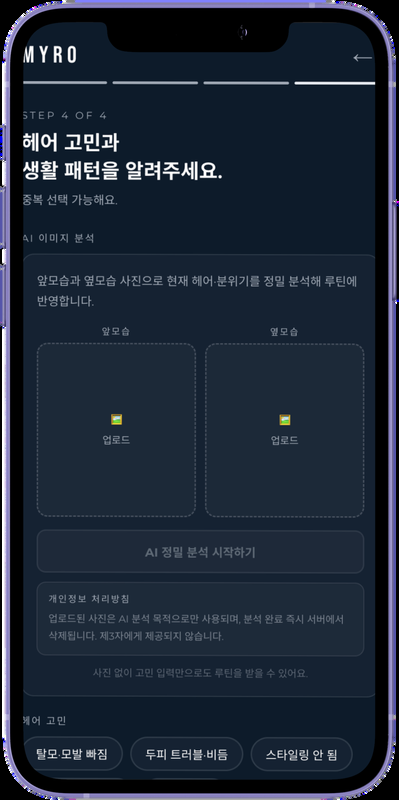
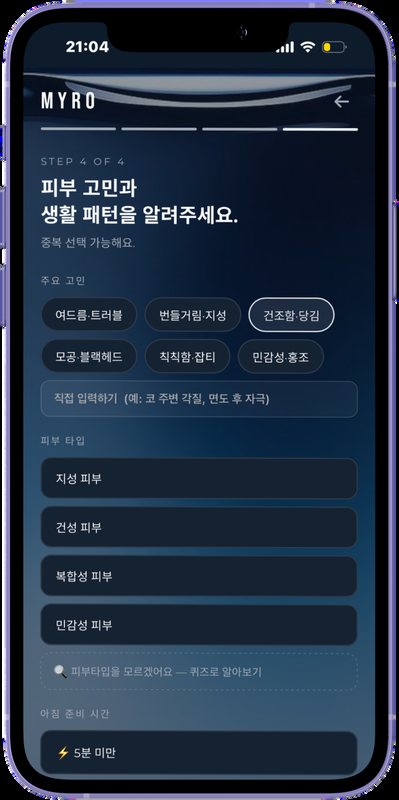
팀별 둘째 장 추가와 MYRO·SUBOOK 최신 자료 반영
바디밸런서, MYRO, SUBOOK에 숫자·사업 모델·다음 계획 장을 하나씩 더했다.
MYRO는 9/21 IR 덱, SUBOOK은 최신 소개 자료의 숫자와 화면으로 바꿨다.

Claude-Session: https://claude.ai/code/session_01JX8HRFD41nH27SkA2hhhmK

diff --git a/index.html b/index.html
@@ -120,6 +120,22 @@
   .team .vis.shot { background: radial-gradient(circle at 50% 45%, #1d2340 0%, #0f0f12 70%); }
   .team .vis.shot img { width: 720px; height: auto; border-radius: 14px; box-shadow: 0 30px 80px rgba(0,0,0,.55); }
 
+
+  /* 사업 둘째 장(숫자·모델·다음) */
+  .biz .head { display: flex; align-items: center; gap: 32px; }
+  .biz .logo.sq { height: 84px; border-radius: 14px; display: block; }
+  .biz .logo.wm { height: 56px; display: block; }
+  .biz h2 { font-size: 64px; margin-top: 52px; }
+  .biz .cols { position: absolute; left: 0; right: 0; bottom: 10px; display: grid; grid-template-columns: 1fr 620px; gap: 0 110px; align-items: end; }
+  .biz .mt > div { display: grid; grid-template-columns: 330px 1fr; align-items: baseline; gap: 0 28px; padding: 24px 0; border-top: 1px solid var(--line); }
+  .biz .mt .v { font-family: var(--display); font-size: 54px; font-weight: 700; letter-spacing: -0.03em; line-height: 1.05; white-space: nowrap; }
+  .biz .mt .k { font-size: 30px; color: var(--subtle); line-height: 1.4; }
+  .biz .side h4 { font-size: 24px; font-weight: 600; color: var(--accent-text); letter-spacing: .02em; padding-bottom: 12px; }
+  .biz .side h4 ~ h4 { margin-top: 34px; }
+  .biz .side p { font-size: 30px; line-height: 1.45; color: var(--subtle); padding: 14px 0; border-top: 1px solid var(--line); }
+  .biz .side p.t { display: grid; grid-template-columns: 112px 1fr; gap: 0 12px; }
+  .biz .side p b { color: var(--fg); font-weight: 700; font-family: var(--display); }
+
   /* 다음 */
   #next h2 { margin-top: 40px; }
   .rows { position: absolute; left: 0; right: 0; bottom: 30px; }
@@ -248,13 +264,37 @@
     <h2>폰 카메라 한 번으로<br>자세를 측정해 기록하는 앱</h2>
     <div class="pr">
       <div><span>문제</span><span>근골격 통증으로 1년에 8.2번 병원에 가도,<br>왜 아픈지는 듣지 못합니다.</span></div>
-      <div><span>해결</span><span>촬영하면 AI가 자세를 분석하고 변화를 추적합니다.<br>9월 Shellog로 Android·iOS에 출시했습니다.</span></div>
+      <div><span>해결</span><span>촬영하면 AI가 자세를 분석하고 변화를 추적합니다.<br>Shellog라는 이름으로 Android·iOS에 출시했습니다.</span></div>
       <div><span>기술</span><span>Expo·React Native, 온디바이스 MoveNet,<br>서버 RTMPose와 MediaPipe 듀얼 엔진</span></div>
     </div>
     <div class="kbox"><div class="kpi">96.8%</div><div class="kcap">관절 위치 정밀도(PCK@0.10, COCO 기준) · 업계 평균 95%</div></div>
   </div>
   <div class="vis phones cards"><img src="assets/shellog-01-test.png" alt=""><img src="assets/shellog-04-verdict.png" alt=""></div>
   <div class="cap vcap">Shellog: 필라테스 & 자세 교정 · 스토어 화면</div>
+</section>
+
+<!-- 6-2 BodyBalancer 지금 -->
+<section class="slide biz" id="b-bb">
+  <div class="pad">
+    <div class="head"><img class="logo sq" src="assets/bodybalancer.png" alt="BodyBalancer"><div class="label">BodyBalancer · Now</div></div>
+    <h2>자세 분석에서,<br>매일 여는 필라테스 앱으로</h2>
+    <div class="cols">
+      <div class="mt">
+        <div><span class="v">20인</span><span class="k">전문가 인터뷰<br>(물리치료사·의사·교수·필라테스 강사)</span></div>
+        <div><span class="v">50명+</span><span class="k">인천 청년 창업 마켓 부스 현장 측정</span></div>
+        <div><span class="v">100명+</span><span class="k">네이버 척추 카페 베타 실사용 회원</span></div>
+        <div><span class="v">S등급</span><span class="k">Y-Compass 2026, 35팀 중 상위 5팀<br>모두의창업 1라운드 선정</span></div>
+      </div>
+      <div class="side">
+        <h4>사업 모델</h4>
+        <p>분석과 기록은 무료,<br>해석과 개인화 코칭은 구독</p>
+        <h4>다음</h4>
+        <p class="t"><b>11월</b><span>구독 판매 시작</span></p>
+        <p class="t"><b>4주</b><span>영어권 4개국 설치 광고로<br>설치 단가·체험·결제율 검증</span></p>
+        <p class="t"><b>그다음</b><span>필라테스·PT 시설로 확장</span></p>
+      </div>
+    </div>
+  </div>
 </section>
 
 <!-- 7 MYRO -->
@@ -265,12 +305,36 @@
     <div class="pr">
       <div><span>문제</span><span>자기관리를 하고 싶어도 무엇부터 할지 모르는<br>20~35세 남성이 많습니다(사전 설문 56명).</span></div>
       <div><span>해결</span><span>고민을 고르면 AI가 루틴을 짜고 분야별 전문가가 검수한 후,<br>습관이 될 때까지 관리합니다.</span></div>
-      <div><span>기술</span><span>AI 얼굴 분석 진단, AI 루틴 생성과 전문가 검수,<br>이탈 감지 알림</span></div>
+      <div><span>기술</span><span>Flask(Railway) 백엔드, GitHub Pages 프런트엔드,<br>Claude 기반 얼굴 분석, n8n 콘텐츠 자동화</span></div>
     </div>
-    <div class="kbox"><div class="kpi">189K</div><div class="kcap">광고비 0원으로 8주 동안 올린 콘텐츠 조회수 · 베타 10명 전원 유료 가입</div></div>
+    <div class="kbox"><div class="kpi">190K</div><div class="kcap">광고비 0원으로 8주 동안 올린 Instagram·Threads 콘텐츠 조회수</div></div>
   </div>
   <div class="vis phones"><img src="assets/myro-1.png" alt=""><img src="assets/myro-2.png" alt=""></div>
-  <div class="cap vcap">자료: MYRO 43기 데모데이 발표</div>
+  <div class="cap vcap">자료: MYRO IR 덱(2026. 9. 21)</div>
+</section>
+
+<!-- 7-2 MYRO 트랙션 -->
+<section class="slide biz" id="b-myro">
+  <div class="pad">
+    <div class="head"><img class="logo sq" src="assets/MYRO.png" alt="MYRO"><div class="label">MYRO · Traction</div></div>
+    <h2>광고 없이 모은<br>첫 사용자 102명</h2>
+    <div class="cols">
+      <div class="mt">
+        <div><span class="v">17.9%</span><span class="k">랜딩 방문에서 베타 신청까지<br>(랜딩페이지 업계 중앙값 6.6%)</span></div>
+        <div><span class="v">10/10</span><span class="k">베타 사용자 전원이 정식 1기 얼리버드 가입</span></div>
+        <div><span class="v">102명</span><span class="k">9/20 기준 유기 유입 사용자</span></div>
+        <div><span class="v">145,000원</span><span class="k">9/20 기준 누적 매출</span></div>
+      </div>
+      <div class="side">
+        <h4>사업 모델</h4>
+        <p>1주 무료 체험 후<br>섹션 하나 9,900원, 묶음 29,900원</p>
+        <p>전문가 1:1 케어 2주 34,900원</p>
+        <p>B2B: 제휴 커머스, 전문가 SaaS,<br>브랜드 스폰서십</p>
+        <h4>팀</h4>
+        <p>1인 창업(기획·개발·마케팅)<br>프런트엔드·리서치 1명씩 합류 예정</p>
+      </div>
+    </div>
+  </div>
 </section>
 
 <!-- 8 10to10 -->
@@ -292,19 +356,44 @@
 <!-- 9 SUBOOK -->
 <section class="slide team" id="t-subook">
   <div class="pad">
-    <div class="head"><img class="logo wm" src="assets/logo_h_white.png" alt="SUBOOK"><div class="label">Alumni Vol.42 · <span class="ko">42기 데모데이 최우수상</span></div></div>
+    <div class="head"><img class="logo wm" src="assets/logo_h_white.png" alt="SUBOOK"><div class="label">Alumni Vol.42 · <span class="ko">43기 데모데이 IR 발표</span></div></div>
     <h2>다 쓰지 못한 수능 교재를<br>다음 수험생에게</h2>
     <div class="pr">
       <div><span>문제</span><span>수험생의 92%가 교재를 버리거나 방치합니다<br>(자체 조사 217명).</span></div>
       <div><span>해결</span><span>집 앞에 내놓으면 수거·검수·판매를 대신하고,<br>구매자는 S급 교재를 정가의 40~70%에 삽니다.</span></div>
       <div><span>기술</span><span>React Native 카메라, YOLOv8, Google Vision,<br>Elasticsearch로 권당 등록 5.2분을 8초로</span></div>
     </div>
-    <div class="kbox"><div class="kpi">800<small>만 원+</small></div><div class="kcap">5개월 테스트 매출 · MAU 3,000명 이상 · 재주문율 29.2%</div></div>
+    <div class="kbox"><div class="kpi">2,000<small>만 원+</small></div><div class="kcap">누적 매출 · 2개월 사이 월 매출 5배</div></div>
   </div>
   <div class="vis shot"><img src="assets/subook-web.jpg" alt=""></div>
-  <div class="cap vcap">자료: SUBOOK 43기 데모데이 발표</div>
+  <div class="cap vcap">자료: SUBOOK 최신 소개 자료</div>
 </section>
 
+
+<!-- 9-2 SUBOOK 트랙션 -->
+<section class="slide biz" id="b-subook">
+  <div class="pad">
+    <div class="head"><img class="logo wm" src="assets/logo_h_white.png" alt="SUBOOK"><div class="label">SUBOOK · Traction</div></div>
+    <h2>학원에서 걷어 와,<br>전국 수험생에게</h2>
+    <div class="cols">
+      <div class="mt">
+        <div><span class="v">69.1%</span><span class="k">서울 밖 지역에서 들어온 주문 비중</span></div>
+        <div><span class="v">10개 지점</span><span class="k">잇올 스파르타·에듀플렉스 수거 파트너<br>10월부터 매주 1천 권+ 정기 수거</span></div>
+        <div><span class="v">6,000권+</span><span class="k">보유 재고, 99%가 새 교재</span></div>
+        <div><span class="v">29.6%</span><span class="k">재주문율 · 주문당 평균 47,100원</span></div>
+      </div>
+      <div class="side">
+        <h4>사업 모델</h4>
+        <p>개인 교재 위탁 판매, 수수료 약 42%</p>
+        <p>학원 교재 권당 100원 직매입<br>주문당 공헌이익률 71.8%</p>
+        <h4>다음</h4>
+        <p class="t"><b>수능 후</b><span>학원 교재 2~3만 권 수거 예정</span></p>
+        <p class="t"><b>12~1월</b><span>Pre-Seed 2억 원 유치 계획</span></p>
+        <p class="t"><b>2027</b><span>앱 출시, B2B 파트너 100곳</span></p>
+      </div>
+    </div>
+  </div>
+</section>
 
 <!-- 10 진행 예정 -->
 <section class="slide" id="next">
@@ -342,7 +431,7 @@
   addEventListener('resize', fit); fit();
 
   // 장마다 떠오를 요소를 문서 순서대로 고른다(조상이 이미 골라진 요소는 뺀다)
-  const SEL = '.mark, .label, .head, h1, h2, .lead, .sub, .by, .tl .pt, .kpi, .kcap, .note, table.t5 tr, .names span, .pr > div, .kbox, .vis, .rows .r, .cap';
+  const SEL = '.mark, .label, .head, h1, h2, .lead, .sub, .by, .tl .pt, .kpi, .kcap, .note, table.t5 tr, .names span, .pr > div, .kbox, .vis, .rows .r, .cap, .mt > div, .side > *';
   for (const sl of slides) {
     const picked = [];
     for (const el of sl.querySelectorAll(SEL)) {
